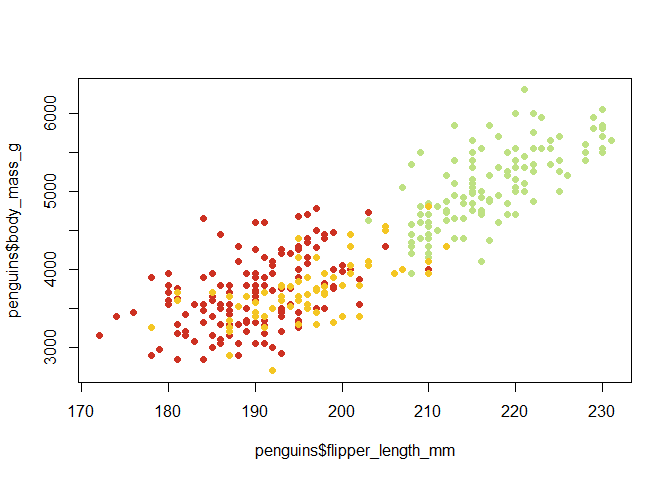
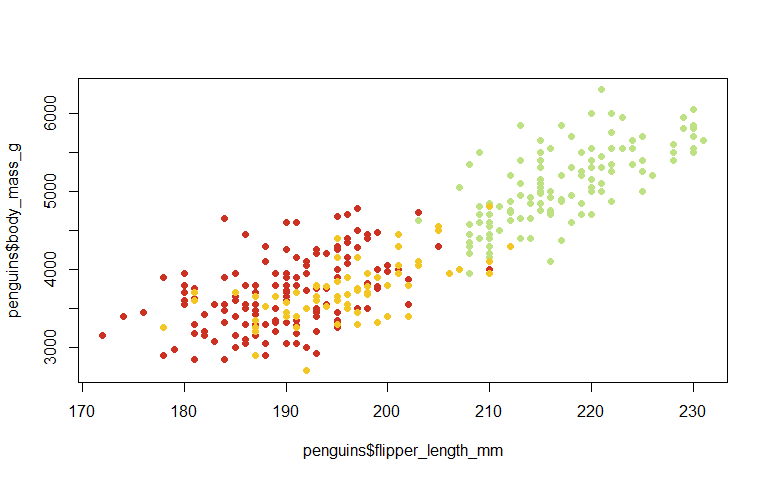
made fig output sizes consistent

diff --git a/README.md b/README.md
@@ -44,7 +44,7 @@ eastern_rosella <- get_pal("eastern_rosella")
 print_pal(eastern_rosella)
 ```
 
-![](README_files/figure-gfm/unnamed-chunk-5-1.png)<!-- -->
+<img src="README_files/figure-gfm/unnamed-chunk-5-1.png" style="display: block; margin: auto;" />
 
 ## Examples
 
@@ -59,7 +59,7 @@ ggplot(penguins) +
   scale_colour_manual(values = get_pal("eastern_rosella"))
 ```
 
-![](README_files/figure-gfm/unnamed-chunk-6-1.png)<!-- -->
+<img src="README_files/figure-gfm/unnamed-chunk-6-1.png" style="display: block; margin: auto;" />
 
 base `R`:
 
@@ -68,7 +68,7 @@ library(palmerpenguins)
 plot(penguins$flipper_length_mm, penguins$body_mass_g, col = get_pal("eastern_rosella")[factor(penguins$species)], pch = 19)
 ```
 
-![](README_files/figure-gfm/unnamed-chunk-7-1.png)<!-- -->
+<img src="README_files/figure-gfm/unnamed-chunk-7-1.png" style="display: block; margin: auto;" />
 
 ## Colour palettes
 
